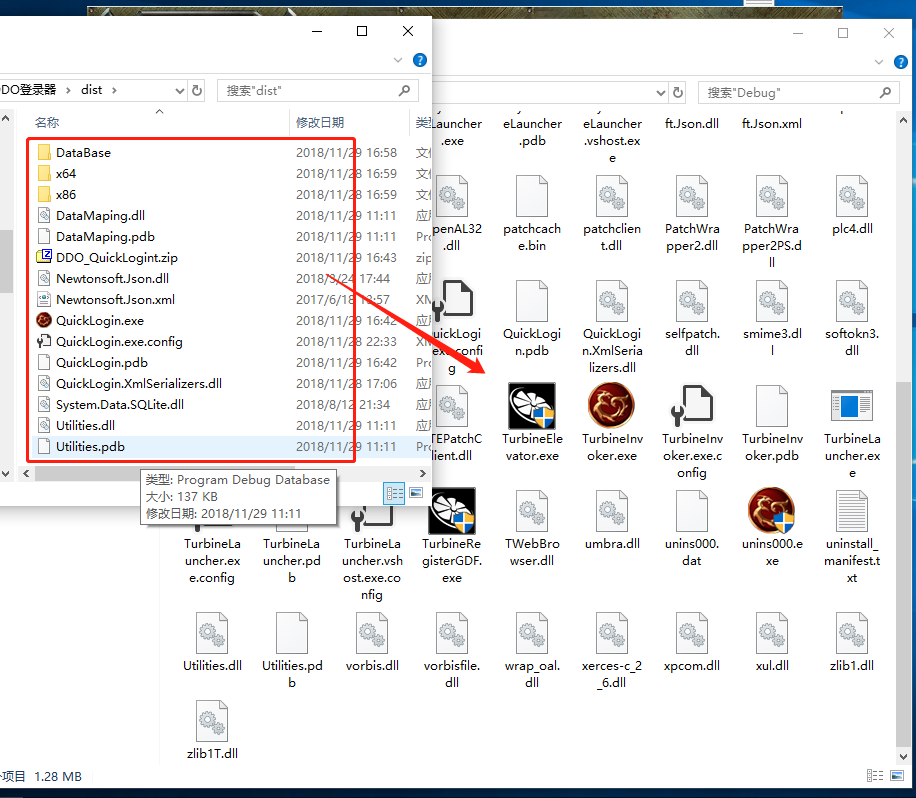
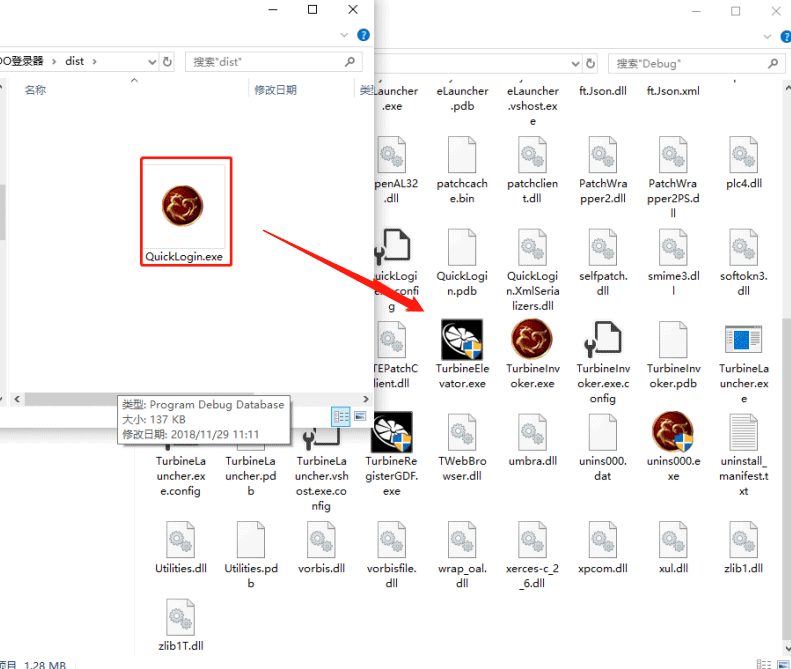
更新文档

Changed region(s): [[0.0, 0.0, 1.0, 1.0], [0.6979, 0.0897, 0.8799, 0.1794], [0.8192, 0.7773, 0.8799, 0.867]]

diff --git a/README.md b/README.md
@@ -26,5 +26,5 @@
 + ~~旧版本更新的请自行输入账户信息~~
 
 ### 使用说明
-+ 将压缩包中所有文件复制到游戏根目录,如图:![img](https://images.gitee.com/uploads/images/2019/0628/181152_778ba0a1_1366903.png)
++ 将QuickLogin.exe文件复制到游戏根目录,如图:![img](https://images.gitee.com/uploads/images/2019/0628/181152_778ba0a1_1366903.png)
 + 运行![img](https://images.gitee.com/uploads/images/2019/0628/181152_2385d8a8_1366903.png) 即可
